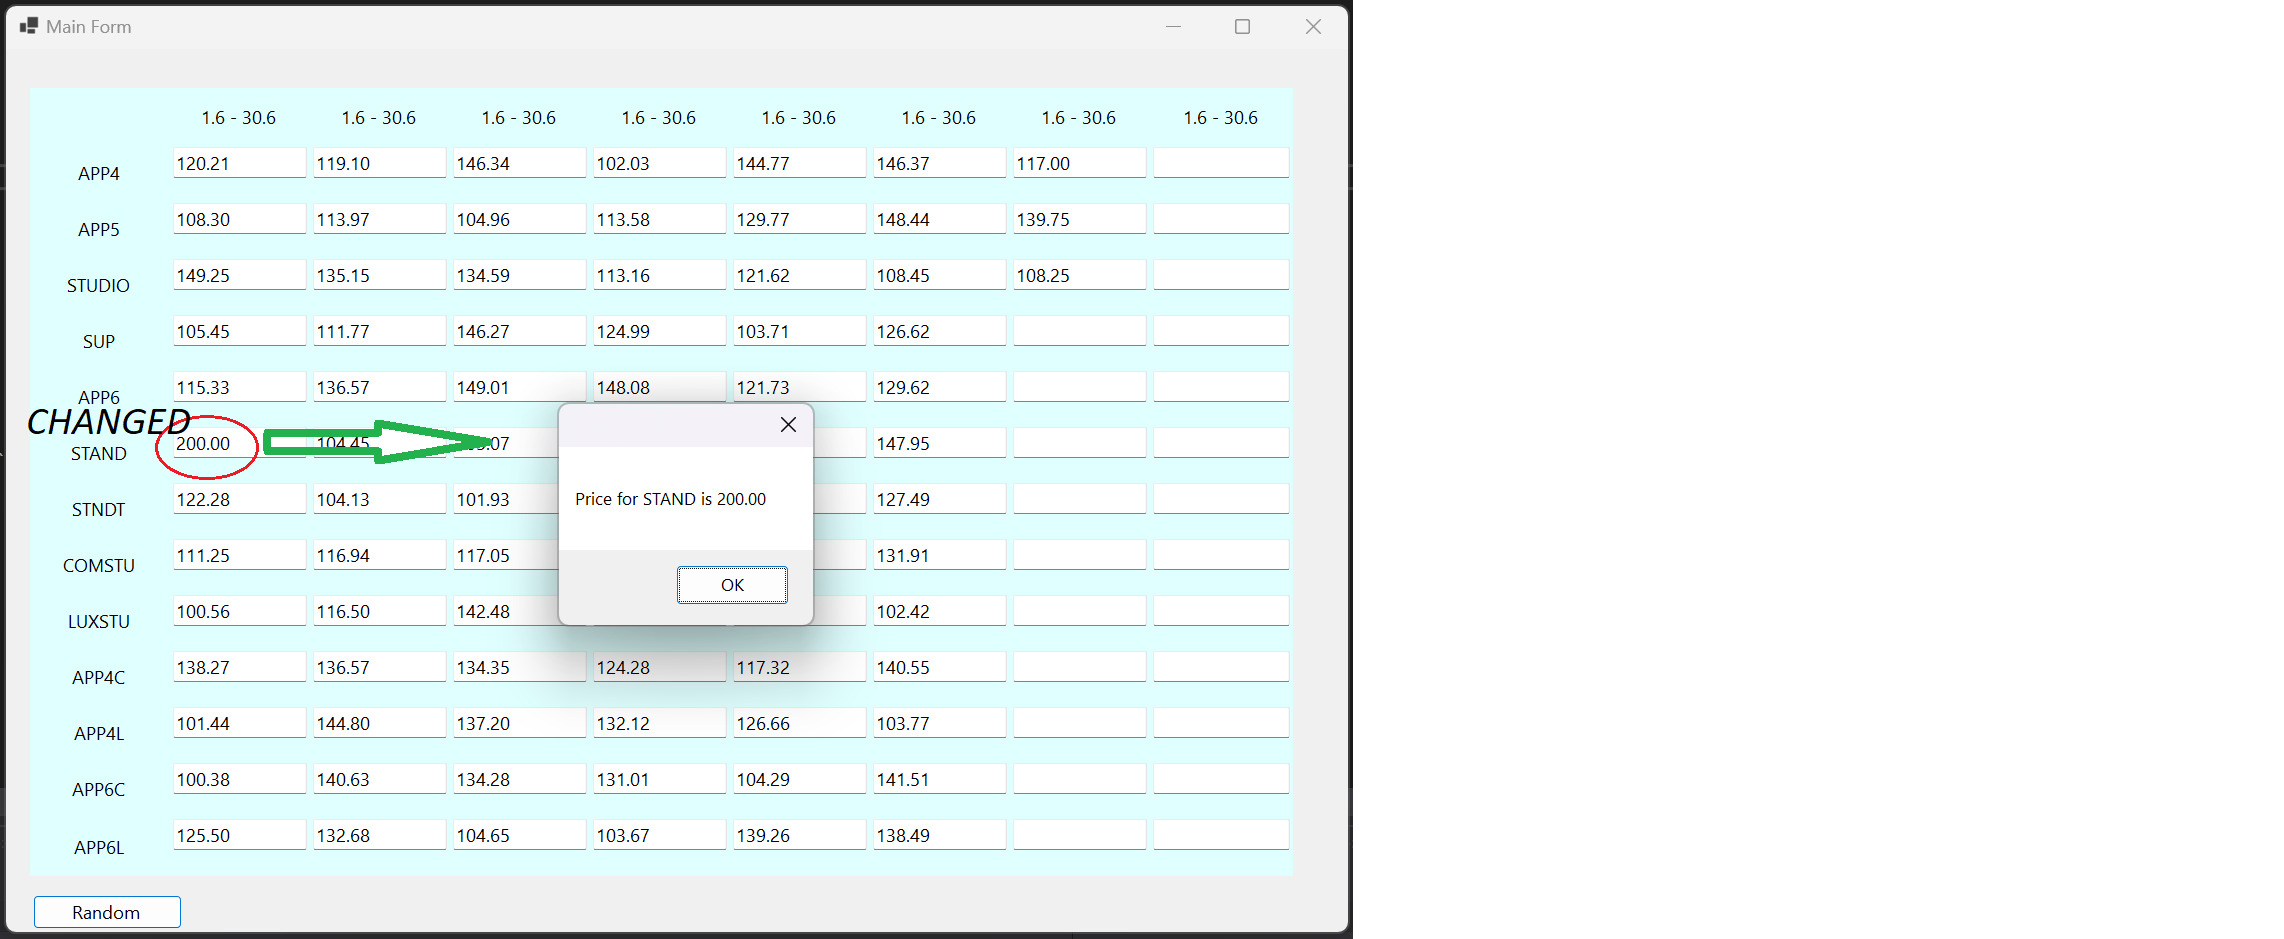
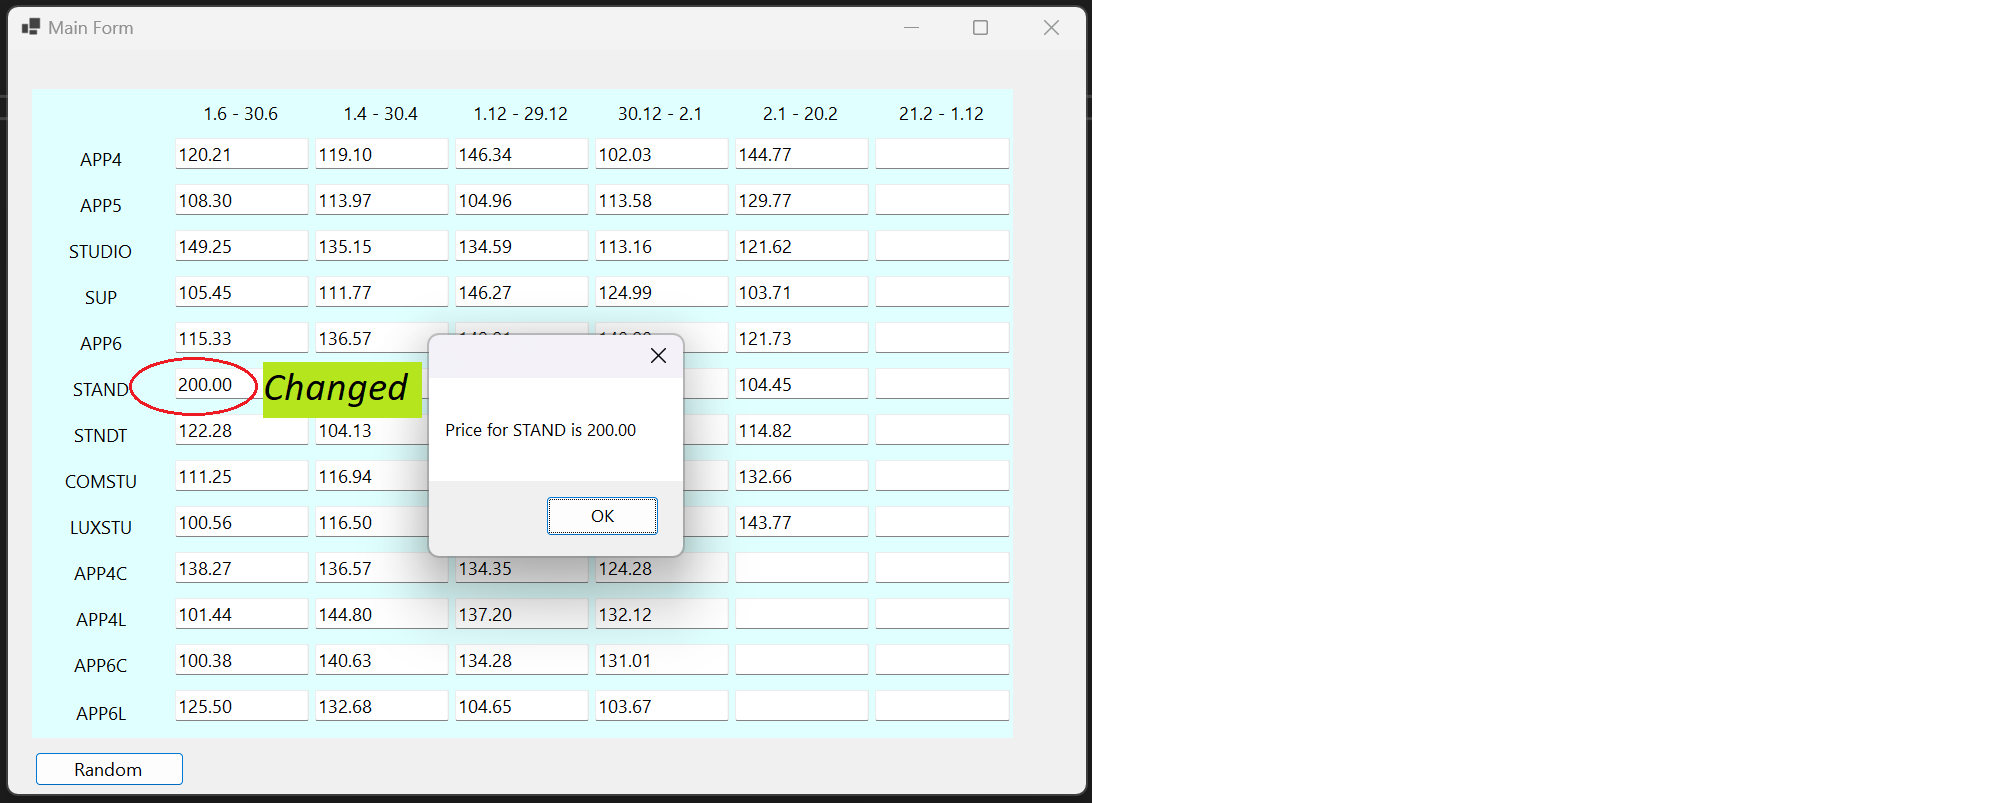
readme++

diff --git a/dynamic-hotel/MainForm.Designer.cs b/dynamic-hotel/MainForm.Designer.cs
@@ -49,18 +49,17 @@ namespace dynamic_hotel
             this.label16 = new System.Windows.Forms.Label();
             this.label17 = new System.Windows.Forms.Label();
             this.label18 = new System.Windows.Forms.Label();
-            this.label19 = new System.Windows.Forms.Label();
-            this.label20 = new System.Windows.Forms.Label();
             this.buttonRandom = new System.Windows.Forms.Button();
             this.tableLayoutPanel.SuspendLayout();
             this.SuspendLayout();
             // 
             // tableLayoutPanel
             // 
+            this.tableLayoutPanel.Anchor = ((System.Windows.Forms.AnchorStyles)((((System.Windows.Forms.AnchorStyles.Top | System.Windows.Forms.AnchorStyles.Bottom) 
+            | System.Windows.Forms.AnchorStyles.Left) 
+            | System.Windows.Forms.AnchorStyles.Right)));
             this.tableLayoutPanel.BackColor = System.Drawing.Color.LightCyan;
-            this.tableLayoutPanel.ColumnCount = 9;
-            this.tableLayoutPanel.ColumnStyles.Add(new System.Windows.Forms.ColumnStyle(System.Windows.Forms.SizeType.Percent, 11.11111F));
-            this.tableLayoutPanel.ColumnStyles.Add(new System.Windows.Forms.ColumnStyle(System.Windows.Forms.SizeType.Percent, 11.11111F));
+            this.tableLayoutPanel.ColumnCount = 7;
             this.tableLayoutPanel.ColumnStyles.Add(new System.Windows.Forms.ColumnStyle(System.Windows.Forms.SizeType.Percent, 11.11111F));
             this.tableLayoutPanel.ColumnStyles.Add(new System.Windows.Forms.ColumnStyle(System.Windows.Forms.SizeType.Percent, 11.11111F));
             this.tableLayoutPanel.ColumnStyles.Add(new System.Windows.Forms.ColumnStyle(System.Windows.Forms.SizeType.Percent, 11.11111F));
@@ -87,8 +86,6 @@ namespace dynamic_hotel
             this.tableLayoutPanel.Controls.Add(this.label16, 4, 0);
             this.tableLayoutPanel.Controls.Add(this.label17, 5, 0);
             this.tableLayoutPanel.Controls.Add(this.label18, 6, 0);
-            this.tableLayoutPanel.Controls.Add(this.label19, 7, 0);
-            this.tableLayoutPanel.Controls.Add(this.label20, 8, 0);
             this.tableLayoutPanel.Location = new System.Drawing.Point(24, 39);
             this.tableLayoutPanel.Name = "tableLayoutPanel";
             this.tableLayoutPanel.RowCount = 14;
@@ -106,7 +103,7 @@ namespace dynamic_hotel
             this.tableLayoutPanel.RowStyles.Add(new System.Windows.Forms.RowStyle(System.Windows.Forms.SizeType.Percent, 7.142858F));
             this.tableLayoutPanel.RowStyles.Add(new System.Windows.Forms.RowStyle(System.Windows.Forms.SizeType.Percent, 7.142858F));
             this.tableLayoutPanel.RowStyles.Add(new System.Windows.Forms.RowStyle(System.Windows.Forms.SizeType.Percent, 7.142858F));
-            this.tableLayoutPanel.Size = new System.Drawing.Size(1263, 788);
+            this.tableLayoutPanel.Size = new System.Drawing.Size(981, 649);
             this.tableLayoutPanel.TabIndex = 0;
             // 
             // label2
@@ -115,9 +112,9 @@ namespace dynamic_hotel
             | System.Windows.Forms.AnchorStyles.Left) 
             | System.Windows.Forms.AnchorStyles.Right)));
             this.label2.AutoSize = true;
-            this.label2.Location = new System.Drawing.Point(3, 56);
+            this.label2.Location = new System.Drawing.Point(3, 46);
             this.label2.Name = "label2";
-            this.label2.Size = new System.Drawing.Size(134, 56);
+            this.label2.Size = new System.Drawing.Size(134, 46);
             this.label2.TabIndex = 0;
             this.label2.Text = "APP4";
             this.label2.TextAlign = System.Drawing.ContentAlignment.MiddleCenter;
@@ -128,9 +125,9 @@ namespace dynamic_hotel
             | System.Windows.Forms.AnchorStyles.Left) 
             | System.Windows.Forms.AnchorStyles.Right)));
             this.label3.AutoSize = true;
-            this.label3.Location = new System.Drawing.Point(3, 112);
+            this.label3.Location = new System.Drawing.Point(3, 92);
             this.label3.Name = "label3";
-            this.label3.Size = new System.Drawing.Size(134, 56);
+            this.label3.Size = new System.Drawing.Size(134, 46);
             this.label3.TabIndex = 0;
             this.label3.Text = "APP5";
             this.label3.TextAlign = System.Drawing.ContentAlignment.MiddleCenter;
@@ -141,9 +138,9 @@ namespace dynamic_hotel
             | System.Windows.Forms.AnchorStyles.Left) 
             | System.Windows.Forms.AnchorStyles.Right)));
             this.label4.AutoSize = true;
-            this.label4.Location = new System.Drawing.Point(3, 168);
+            this.label4.Location = new System.Drawing.Point(3, 138);
             this.label4.Name = "label4";
-            this.label4.Size = new System.Drawing.Size(134, 56);
+            this.label4.Size = new System.Drawing.Size(134, 46);
             this.label4.TabIndex = 0;
             this.label4.Text = "STUDIO";
             this.label4.TextAlign = System.Drawing.ContentAlignment.MiddleCenter;
@@ -154,9 +151,9 @@ namespace dynamic_hotel
             | System.Windows.Forms.AnchorStyles.Left) 
             | System.Windows.Forms.AnchorStyles.Right)));
             this.label5.AutoSize = true;
-            this.label5.Location = new System.Drawing.Point(3, 224);
+            this.label5.Location = new System.Drawing.Point(3, 184);
             this.label5.Name = "label5";
-            this.label5.Size = new System.Drawing.Size(134, 56);
+            this.label5.Size = new System.Drawing.Size(134, 46);
             this.label5.TabIndex = 0;
             this.label5.Text = "SUP";
             this.label5.TextAlign = System.Drawing.ContentAlignment.MiddleCenter;
@@ -167,9 +164,9 @@ namespace dynamic_hotel
             | System.Windows.Forms.AnchorStyles.Left) 
             | System.Windows.Forms.AnchorStyles.Right)));
             this.label6.AutoSize = true;
-            this.label6.Location = new System.Drawing.Point(3, 280);
+            this.label6.Location = new System.Drawing.Point(3, 230);
             this.label6.Name = "label6";
-            this.label6.Size = new System.Drawing.Size(134, 56);
+            this.label6.Size = new System.Drawing.Size(134, 46);
             this.label6.TabIndex = 0;
             this.label6.Text = "APP6";
             this.label6.TextAlign = System.Drawing.ContentAlignment.MiddleCenter;
@@ -180,9 +177,9 @@ namespace dynamic_hotel
             | System.Windows.Forms.AnchorStyles.Left) 
             | System.Windows.Forms.AnchorStyles.Right)));
             this.label7.AutoSize = true;
-            this.label7.Location = new System.Drawing.Point(3, 336);
+            this.label7.Location = new System.Drawing.Point(3, 276);
             this.label7.Name = "label7";
-            this.label7.Size = new System.Drawing.Size(134, 56);
+            this.label7.Size = new System.Drawing.Size(134, 46);
             this.label7.TabIndex = 0;
             this.label7.Text = "STAND";
             this.label7.TextAlign = System.Drawing.ContentAlignment.MiddleCenter;
@@ -193,9 +190,9 @@ namespace dynamic_hotel
             | System.Windows.Forms.AnchorStyles.Left) 
             | System.Windows.Forms.AnchorStyles.Right)));
             this.label8.AutoSize = true;
-            this.label8.Location = new System.Drawing.Point(3, 392);
+            this.label8.Location = new System.Drawing.Point(3, 322);
             this.label8.Name = "label8";
-            this.label8.Size = new System.Drawing.Size(134, 56);
+            this.label8.Size = new System.Drawing.Size(134, 46);
             this.label8.TabIndex = 0;
             this.label8.Text = "STNDT";
             this.label8.TextAlign = System.Drawing.ContentAlignment.MiddleCenter;
@@ -206,9 +203,9 @@ namespace dynamic_hotel
             | System.Windows.Forms.AnchorStyles.Left) 
             | System.Windows.Forms.AnchorStyles.Right)));
             this.label9.AutoSize = true;
-            this.label9.Location = new System.Drawing.Point(3, 448);
+            this.label9.Location = new System.Drawing.Point(3, 368);
             this.label9.Name = "label9";
-            this.label9.Size = new System.Drawing.Size(134, 56);
+            this.label9.Size = new System.Drawing.Size(134, 46);
             this.label9.TabIndex = 0;
             this.label9.Text = "COMSTU";
             this.label9.TextAlign = System.Drawing.ContentAlignment.MiddleCenter;
@@ -219,9 +216,9 @@ namespace dynamic_hotel
             | System.Windows.Forms.AnchorStyles.Left) 
             | System.Windows.Forms.AnchorStyles.Right)));
             this.label10.AutoSize = true;
-            this.label10.Location = new System.Drawing.Point(3, 504);
+            this.label10.Location = new System.Drawing.Point(3, 414);
             this.label10.Name = "label10";
-            this.label10.Size = new System.Drawing.Size(134, 56);
+            this.label10.Size = new System.Drawing.Size(134, 46);
             this.label10.TabIndex = 0;
             this.label10.Text = "LUXSTU";
             this.label10.TextAlign = System.Drawing.ContentAlignment.MiddleCenter;
@@ -232,9 +229,9 @@ namespace dynamic_hotel
             | System.Windows.Forms.AnchorStyles.Left) 
             | System.Windows.Forms.AnchorStyles.Right)));
             this.label11.AutoSize = true;
-            this.label11.Location = new System.Drawing.Point(3, 560);
+            this.label11.Location = new System.Drawing.Point(3, 460);
             this.label11.Name = "label11";
-            this.label11.Size = new System.Drawing.Size(134, 56);
+            this.label11.Size = new System.Drawing.Size(134, 46);
             this.label11.TabIndex = 0;
             this.label11.Text = "APP4C";
             this.label11.TextAlign = System.Drawing.ContentAlignment.MiddleCenter;
@@ -245,9 +242,9 @@ namespace dynamic_hotel
             | System.Windows.Forms.AnchorStyles.Left) 
             | System.Windows.Forms.AnchorStyles.Right)));
             this.label12.AutoSize = true;
-            this.label12.Location = new System.Drawing.Point(3, 616);
+            this.label12.Location = new System.Drawing.Point(3, 506);
             this.label12.Name = "label12";
-            this.label12.Size = new System.Drawing.Size(134, 56);
+            this.label12.Size = new System.Drawing.Size(134, 46);
             this.label12.TabIndex = 0;
             this.label12.Text = "APP4L";
             this.label12.TextAlign = System.Drawing.ContentAlignment.MiddleCenter;
@@ -258,9 +255,9 @@ namespace dynamic_hotel
             | System.Windows.Forms.AnchorStyles.Left) 
             | System.Windows.Forms.AnchorStyles.Right)));
             this.label13.AutoSize = true;
-            this.label13.Location = new System.Drawing.Point(3, 672);
+            this.label13.Location = new System.Drawing.Point(3, 552);
             this.label13.Name = "label13";
-            this.label13.Size = new System.Drawing.Size(134, 56);
+            this.label13.Size = new System.Drawing.Size(134, 46);
             this.label13.TabIndex = 0;
             this.label13.Text = "APP6C";
             this.label13.TextAlign = System.Drawing.ContentAlignment.MiddleCenter;
@@ -271,9 +268,9 @@ namespace dynamic_hotel
             | System.Windows.Forms.AnchorStyles.Left) 
             | System.Windows.Forms.AnchorStyles.Right)));
             this.label14.AutoSize = true;
-            this.label14.Location = new System.Drawing.Point(3, 728);
+            this.label14.Location = new System.Drawing.Point(3, 598);
             this.label14.Name = "label14";
-            this.label14.Size = new System.Drawing.Size(134, 60);
+            this.label14.Size = new System.Drawing.Size(134, 51);
             this.label14.TabIndex = 0;
             this.label14.Text = "APP6L";
             this.label14.TextAlign = System.Drawing.ContentAlignment.MiddleCenter;
@@ -286,7 +283,7 @@ namespace dynamic_hotel
             this.labelCol1.AutoSize = true;
             this.labelCol1.Location = new System.Drawing.Point(143, 0);
             this.labelCol1.Name = "labelCol1";
-            this.labelCol1.Size = new System.Drawing.Size(134, 56);
+            this.labelCol1.Size = new System.Drawing.Size(134, 46);
             this.labelCol1.TabIndex = 0;
             this.labelCol1.Text = "1.6 - 30.6";
             this.labelCol1.TextAlign = System.Drawing.ContentAlignment.MiddleCenter;
@@ -299,9 +296,9 @@ namespace dynamic_hotel
             this.label1.AutoSize = true;
             this.label1.Location = new System.Drawing.Point(283, 0);
             this.label1.Name = "label1";
-            this.label1.Size = new System.Drawing.Size(134, 56);
+            this.label1.Size = new System.Drawing.Size(134, 46);
             this.label1.TabIndex = 0;
-            this.label1.Text = "1.6 - 30.6";
+            this.label1.Text = "1.4 - 30.4";
             this.label1.TextAlign = System.Drawing.ContentAlignment.MiddleCenter;
             // 
             // label15
@@ -312,9 +309,9 @@ namespace dynamic_hotel
             this.label15.AutoSize = true;
             this.label15.Location = new System.Drawing.Point(423, 0);
             this.label15.Name = "label15";
-            this.label15.Size = new System.Drawing.Size(134, 56);
+            this.label15.Size = new System.Drawing.Size(134, 46);
             this.label15.TabIndex = 0;
-            this.label15.Text = "1.6 - 30.6";
+            this.label15.Text = "1.12 - 29.12";
             this.label15.TextAlign = System.Drawing.ContentAlignment.MiddleCenter;
             // 
             // label16
@@ -325,9 +322,9 @@ namespace dynamic_hotel
             this.label16.AutoSize = true;
             this.label16.Location = new System.Drawing.Point(563, 0);
             this.label16.Name = "label16";
-            this.label16.Size = new System.Drawing.Size(134, 56);
+            this.label16.Size = new System.Drawing.Size(134, 46);
             this.label16.TabIndex = 0;
-            this.label16.Text = "1.6 - 30.6";
+            this.label16.Text = "30.12 - 2.1";
             this.label16.TextAlign = System.Drawing.ContentAlignment.MiddleCenter;
             // 
             // label17
@@ -338,9 +335,9 @@ namespace dynamic_hotel
             this.label17.AutoSize = true;
             this.label17.Location = new System.Drawing.Point(703, 0);
             this.label17.Name = "label17";
-            this.label17.Size = new System.Drawing.Size(134, 56);
+            this.label17.Size = new System.Drawing.Size(134, 46);
             this.label17.TabIndex = 0;
-            this.label17.Text = "1.6 - 30.6";
+            this.label17.Text = "2.1 - 20.2";
             this.label17.TextAlign = System.Drawing.ContentAlignment.MiddleCenter;
             // 
             // label18
@@ -351,40 +348,15 @@ namespace dynamic_hotel
             this.label18.AutoSize = true;
             this.label18.Location = new System.Drawing.Point(843, 0);
             this.label18.Name = "label18";
-            this.label18.Size = new System.Drawing.Size(134, 56);
+            this.label18.Size = new System.Drawing.Size(135, 46);
             this.label18.TabIndex = 0;
-            this.label18.Text = "1.6 - 30.6";
+            this.label18.Text = "21.2 - 1.12";
             this.label18.TextAlign = System.Drawing.ContentAlignment.MiddleCenter;
-            // 
-            // label19
-            // 
-            this.label19.Anchor = ((System.Windows.Forms.AnchorStyles)((((System.Windows.Forms.AnchorStyles.Top | System.Windows.Forms.AnchorStyles.Bottom) 
-            | System.Windows.Forms.AnchorStyles.Left) 
-            | System.Windows.Forms.AnchorStyles.Right)));
-            this.label19.AutoSize = true;
-            this.label19.Location = new System.Drawing.Point(983, 0);
-            this.label19.Name = "label19";
-            this.label19.Size = new System.Drawing.Size(134, 56);
-            this.label19.TabIndex = 0;
-            this.label19.Text = "1.6 - 30.6";
-            this.label19.TextAlign = System.Drawing.ContentAlignment.MiddleCenter;
-            // 
-            // label20
-            // 
-            this.label20.Anchor = ((System.Windows.Forms.AnchorStyles)((((System.Windows.Forms.AnchorStyles.Top | System.Windows.Forms.AnchorStyles.Bottom) 
-            | System.Windows.Forms.AnchorStyles.Left) 
-            | System.Windows.Forms.AnchorStyles.Right)));
-            this.label20.AutoSize = true;
-            this.label20.Location = new System.Drawing.Point(1123, 0);
-            this.label20.Name = "label20";
-            this.label20.Size = new System.Drawing.Size(137, 56);
-            this.label20.TabIndex = 0;
-            this.label20.Text = "1.6 - 30.6";
-            this.label20.TextAlign = System.Drawing.ContentAlignment.MiddleCenter;
             // 
             // buttonRandom
             // 
-            this.buttonRandom.Location = new System.Drawing.Point(27, 846);
+            this.buttonRandom.Anchor = ((System.Windows.Forms.AnchorStyles)((System.Windows.Forms.AnchorStyles.Bottom | System.Windows.Forms.AnchorStyles.Left)));
+            this.buttonRandom.Location = new System.Drawing.Point(27, 702);
             this.buttonRandom.Name = "buttonRandom";
             this.buttonRandom.Size = new System.Drawing.Size(149, 34);
             this.buttonRandom.TabIndex = 1;
@@ -395,7 +367,7 @@ namespace dynamic_hotel
             // 
             this.AutoScaleDimensions = new System.Drawing.SizeF(10F, 25F);
             this.AutoScaleMode = System.Windows.Forms.AutoScaleMode.Font;
-            this.ClientSize = new System.Drawing.Size(1342, 883);
+            this.ClientSize = new System.Drawing.Size(1078, 744);
             this.Controls.Add(this.buttonRandom);
             this.Controls.Add(this.tableLayoutPanel);
             this.Name = "MainForm";
@@ -430,8 +402,6 @@ namespace dynamic_hotel
         private System.Windows.Forms.Label label16;
         private System.Windows.Forms.Label label17;
         private System.Windows.Forms.Label label18;
-        private System.Windows.Forms.Label label19;
-        private System.Windows.Forms.Label label20;
     }
 }
 

diff --git a/dynamic-hotel/MainForm.cs b/dynamic-hotel/MainForm.cs
@@ -56,7 +56,7 @@ namespace dynamic_hotel
                 textbox.DataBindings.Clear();
             }
             // Generate and create new bindings
-            int count = Rando.Next(1, 105);
+            int count = Rando.Next(1, 79);
             for (int i = 0; i < count; i++)
             {
                 var textbox = _textboxes[i];

diff --git a/README.md b/README.md
@@ -1,4 +1,4 @@
-Your question is about creating dynamic bindings for textboxes and this is one way to approach that. First create some textboxes dynamically:
+Your question is about creating dynamic bindings for textboxes and this is one way that I [tested](https://github.com/IVSoftware/dynamic-hotel.git) for doing that. First create some textboxes dynamically:
 
     public MainForm()
     {
@@ -25,6 +25,7 @@ Your question is about creating dynamic bindings for textboxes and this is one w
     }
     TextBox[] _textboxes = null;
     readonly List<VrstaSobeCena> _dynamicObjects = new List<VrstaSobeCena>();
+
 
 [![table layout panel][1]][1]
 
@@ -118,8 +119,8 @@ Finally, one way to test the two-way binding is to intercept the [Enter] key.
         }
     }
 
-[![two-way-binding][2]][2]
+[![two-way binding][2]][2]
 
 
-  [1]: https://i.stack.imgur.com/3YM7s.png
-  [2]: https://i.stack.imgur.com/o65j7.png
+  [1]: https://i.stack.imgur.com/8VG10.png
+  [2]: https://i.stack.imgur.com/1AdFk.png
